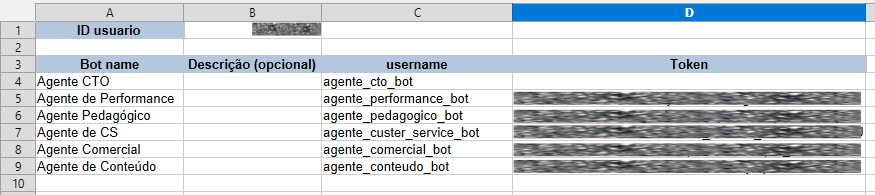
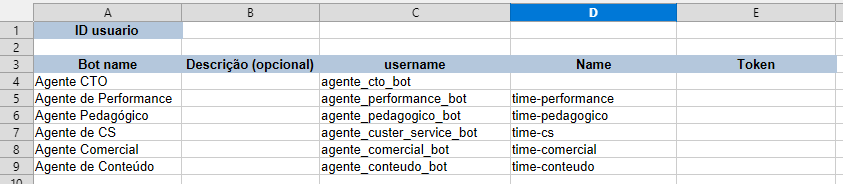
update

diff --git a/orquestrando_multi_agent.md b/orquestrando_multi_agent.md
@@ -71,7 +71,7 @@ Neste chat, digite `/start`
 Agora podemos ver que o bot retornou o nosso nome de usuário **@username** e logo abaixo temos o **id:XXXXXXXXX**
     - Antes de proceguir vamos preencher uma tabela com os dados gerados, vamos precisar deles mais a frente para rodar os comando de cadastro dentro do Hermes.
     - Abra a planilha [dados_profiles.xlsx](dados_profiles.xlsx):
-        ![planilha](./img/planilha1.png)
+        ![planilha](./img/planilha.png)
 
 ### Step 2. Ciando os Bots no Telegram
 
@@ -88,7 +88,7 @@ Cada agente é um setor ou seja um departamento dentro de uma empresa
     ![bf3](./img/botfather3.png)
   
 Ao termino da criação de todos os agentes teremos uma planilha com os Tokens e o ID do Orquestrador (neste caso você com o nome de Agente CTO)
-    ![planilha2](./img/planilha.png)
+    ![planilha2](./img/planilha1.png)
 
 Se selecionarmos a aba **Apps** no Telegram e depois clicar em **BotFather**, podemos ver que temos a seguinte estrutura de Bots
     ![bf4](./img/botfather4.png)
